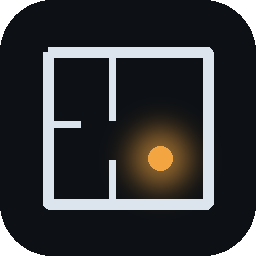
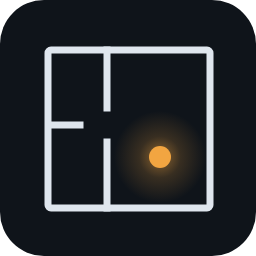
1.0.5: icoon voor Home Assistant (brand), ook @2x

diff --git a/custom_components/floorplan_studio/frontend/floorplan-studio-card.js b/custom_components/floorplan_studio/frontend/floorplan-studio-card.js
@@ -4,8 +4,8 @@ import {
   PLACE_DOMAINS, LAMP_DOMAINS, settingsOf, levelMode, isOn, friendly, lightColor, shortState, loadPlans, savePlan, loadUsage, fire, esc,
   themeFromEntity, themeKey, roomPath, navigate, tempColor, roomPresence, roomAlerts, planVacuum, vacuumMapEntity, VACUUM_BUSY, transformImage,
   labelSpot, roomTextWidth,
-} from './fps-core.js?v=1.0.4';
-import { roomInfo, greeting, sideConfig, weatherInfo, mainAction, energyInfo, statusRow } from './fps-info.js?v=1.0.4';
+} from './fps-core.js?v=1.0.5';
+import { roomInfo, greeting, sideConfig, weatherInfo, mainAction, energyInfo, statusRow } from './fps-info.js?v=1.0.5';
 
 
 const CSS = `

diff --git a/custom_components/floorplan_studio/frontend/fps-dashboard.js b/custom_components/floorplan_studio/frontend/fps-dashboard.js
@@ -1,7 +1,7 @@
 // Floorplan Studio – builds a complete dashboard around a floorplan:
 // Home · Floorplan · Kiosk · Energy · Outside · TV, plus a page per room (tabs are only added when there is something to show).
 // Uses only built-in cards, and nicer HACS cards (advanced-camera-card, clock-weather-card) when they are installed.
-import { entityArea, roomPath } from './fps-core.js?v=1.0.4';
+import { entityArea, roomPath } from './fps-core.js?v=1.0.5';
 
 const OUTSIDE = /buiten|tuin|outside|outdoor|garden|yard|oprit|driveway|terras|patio|balkon|balcony|garage|voortuin|achtertuin|poort|gate|dak|roof|straat|street/i;
 

diff --git a/custom_components/floorplan_studio/frontend/floorplan-studio-panel.js b/custom_components/floorplan_studio/frontend/floorplan-studio-panel.js
@@ -1,10 +1,10 @@
 // Floorplan Studio – editor panel (sidebar → Floorplan).
-import './floorplan-studio-card.js?v=1.0.4';
+import './floorplan-studio-card.js?v=1.0.5';
 import {
   VERSION, THEMES, themeStyle, computeWalls, nearestWall, norm, roomBBox, roomAt, areaEntities, entityArea,
   PLACE_DOMAINS, placeCandidates, friendly, newPlan, DEFAULT_SETTINGS, settingsOf, levelMode, loadPlans, savePlan, esc,
-} from './fps-core.js?v=1.0.4';
-import { buildDashboard } from './fps-dashboard.js?v=1.0.4';
+} from './fps-core.js?v=1.0.5';
+import { buildDashboard } from './fps-dashboard.js?v=1.0.5';
 
 const L = {
   en: {

diff --git a/custom_components/floorplan_studio/frontend/fps-info.js b/custom_components/floorplan_studio/frontend/fps-info.js
@@ -1,6 +1,6 @@
 // Floorplan Studio – what the room text blocks and the side column show.
 // Pure functions on `hass` (no DOM), so they are easy to test.
-import { areaEntities, roomSummary, friendly, shortState, settingsOf, isOn } from './fps-core.js?v=1.0.4';
+import { areaEntities, roomSummary, friendly, shortState, settingsOf, isOn } from './fps-core.js?v=1.0.5';
 
 const NL = (hass) => (hass?.locale?.language || hass?.language || 'en').startsWith('nl');
 const W = (hass, nl, en) => (NL(hass) ? nl : en);

diff --git a/custom_components/floorplan_studio/frontend/fps-core.js b/custom_components/floorplan_studio/frontend/fps-core.js
@@ -1,6 +1,6 @@
 // Floorplan Studio – shared helpers for the card and the editor panel.
 
-export const VERSION = '1.0.4';
+export const VERSION = '1.0.5';
 
 /* ------------------------------------------------------------------ i18n */
 const STR = {

diff --git a/custom_components/floorplan_studio/const.py b/custom_components/floorplan_studio/const.py
@@ -1,7 +1,7 @@
 """Constants for Floorplan Studio."""
 
 DOMAIN = "floorplan_studio"
-VERSION = "1.0.4"
+VERSION = "1.0.5"
 
 STORAGE_KEY = "floorplan_studio.plans"
 STORAGE_KEY_USAGE = "floorplan_studio.usage"

diff --git a/CHANGELOG.md b/CHANGELOG.md
@@ -1,5 +1,9 @@
 # Changelog
 
+## 1.0.5
+- Eigen icoon in Home Assistant (Instellingen → Integraties), ook scherp op hoge resolutie. Vanaf Home Assistant 2026.3.
+- Installatie: duidelijke volgorde (downloaden, herstarten, toevoegen) en uitleg bij de melding *"Deze integratie ondersteunt geen configuratie via de UI"*.
+
 ## 1.0.4
 - Het icoon dat je aanwijst komt met zijn naam naar de voorgrond, ook als het naast of onder andere iconen staat.
 

diff --git a/docs/HANDLEIDING.md b/docs/HANDLEIDING.md
@@ -1,3 +1,5 @@
+<img src="../custom_components/floorplan_studio/brand/icon@2x.png" alt="" width="80" align="right">
+
 # Floorplan Studio – handleiding
 
 Met Floorplan Studio maak je een interactieve plattegrond van je huis voor je Home Assistant-dashboards. Je tekent hem zelf in een paar minuten zonder code, of je trekt hem over van de kaart van je robotstofzuiger of van een foto van de bouwtekening.

diff --git a/README.md b/README.md
@@ -1,3 +1,5 @@
+<img src="custom_components/floorplan_studio/brand/icon@2x.png" alt="" width="96" align="right">
+
 # Floorplan Studio for Home Assistant
 
 [![Open in HACS](https://my.home-assistant.io/badges/hacs_repository.svg)](https://my.home-assistant.io/redirect/hacs_repository/?owner=trackerr&repository=home-assistant-floorplan-studio&category=integration)
